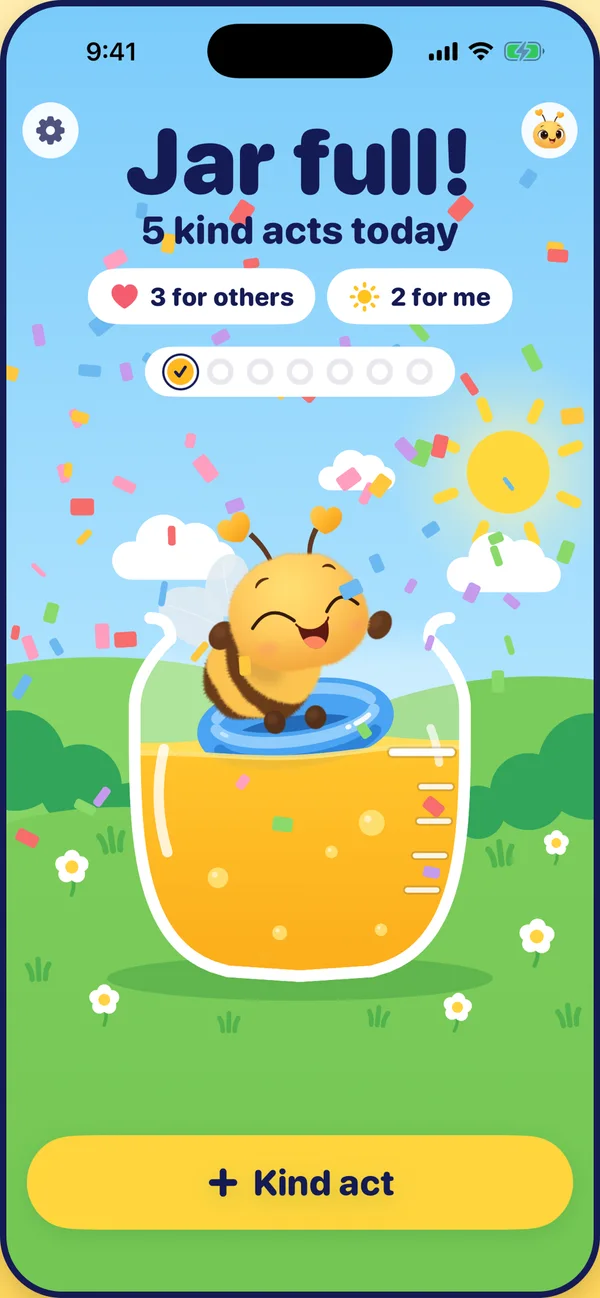
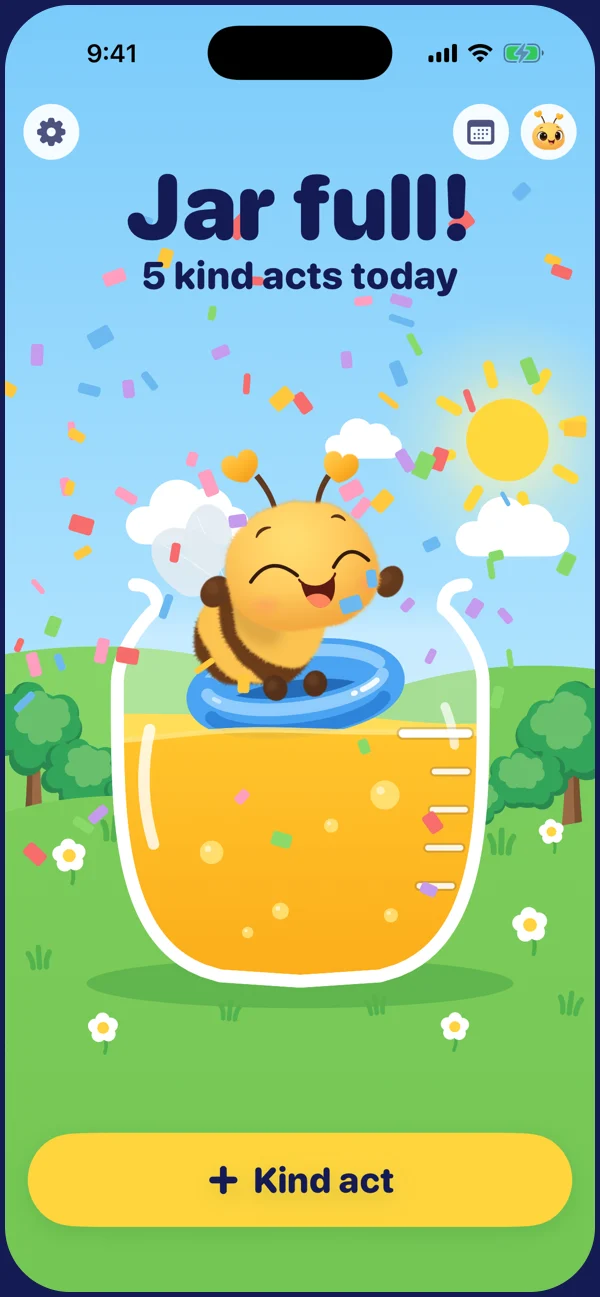
Website update (source commit 699a8e2)

diff --git a/index.html b/index.html
@@ -4,13 +4,13 @@
   <meta charset="utf-8">
   <meta name="viewport" content="width=device-width, initial-scale=1, viewport-fit=cover">
   <title>Bee Kind: Spread Kindness - Kindness Tracker App for iPhone</title>
-  <meta name="description" content="Bee Kind turns kindness into a small daily habit. Each kind act adds honey to your jar. Fill the jar, and your bee throws a party. For iPhone and Apple Watch.">
+  <meta name="description" content="Bee Kind turns kindness into a small daily habit. Each kind act adds honey to your jar. Fill the jar, and your bee throws a party. For iPhone, iPad and Apple Watch.">
   <link rel="canonical" href="https://beekind.io/">
   <meta name="theme-color" content="#7ACBFA">
   <meta property="og:type" content="website">
   <meta property="og:site_name" content="Bee Kind">
   <meta property="og:title" content="Bee Kind: Spread Kindness">
-  <meta property="og:description" content="Fill a honey jar with kind acts. A small daily habit for iPhone and Apple Watch.">
+  <meta property="og:description" content="Fill a honey jar with kind acts. A small daily habit for iPhone, iPad and Apple Watch.">
   <meta property="og:url" content="https://beekind.io/">
   <meta property="og:image" content="https://beekind.io/assets/img/share.png">
   <meta name="twitter:card" content="summary_large_image">
@@ -50,6 +50,7 @@
   <symbol id="i-widget" viewBox="0 0 24 24"><rect x="3.500" y="3.500" width="7.500" height="7.500" rx="2.200"/><rect x="13" y="3.500" width="7.500" height="7.500" rx="2.200"/><rect x="3.500" y="13" width="17" height="7.500" rx="2.200"/></symbol>
   <symbol id="i-lock" viewBox="0 0 24 24"><path d="M7.500 10V7.800a4.500 4.500 0 0 1 9 0V10h.700A1.800 1.800 0 0 1 19 11.800v6.900a1.800 1.800 0 0 1-1.800 1.800H6.800A1.800 1.800 0 0 1 5 18.700v-6.900A1.800 1.800 0 0 1 6.800 10Zm2.200 0h4.600V7.800a2.300 2.300 0 0 0-4.600 0Z"/></symbol>
   <symbol id="i-watch" viewBox="0 0 24 24"><path d="M8.600 2.500h6.800l.700 3.300A3.500 3.500 0 0 1 18.500 9v6a3.500 3.500 0 0 1-2.400 3.200l-.700 3.300H8.600l-.700-3.300A3.500 3.500 0 0 1 5.500 15V9a3.500 3.500 0 0 1 2.400-3.200Zm.400 5.300A1.300 1.300 0 0 0 7.700 9.100v5.800A1.300 1.300 0 0 0 9 16.200h6a1.300 1.300 0 0 0 1.300-1.300V9.100A1.300 1.300 0 0 0 15 7.800Z"/></symbol>
+  <symbol id="i-cloud" viewBox="0 0 24 24"><path d="M7.2 19.2a4.7 4.7 0 0 1-.9-9.3 6 6 0 0 1 11.500-1.300 5.300 5.300 0 0 1-.600 10.600Z"/></symbol>
   <symbol id="i-bell" viewBox="0 0 24 24"><path d="M12 2.800a6.200 6.200 0 0 1 6.200 6.200v3.300l1.600 2.900a1.200 1.200 0 0 1-1 1.800H5.200a1.200 1.200 0 0 1-1-1.800l1.600-2.900V9A6.200 6.200 0 0 1 12 2.800ZM9.600 18.800h4.800a2.400 2.400 0 0 1-4.800 0Z"/></symbol>
 </svg>
 
@@ -80,7 +81,7 @@
 
     <div class="hero__inner wrap">
       <div class="hero__copy">
-        <p class="pill rise" style="--i:0">For iPhone and Apple Watch</p>
+        <p class="pill rise" style="--i:0">For iPhone, iPad and Apple Watch</p>
         <h1 id="hero-title" class="rise" style="--i:1">Fill a honey jar with <span class="hl">kind&nbsp;acts</span></h1>
         <p class="lede rise" style="--i:2">Bee Kind turns kindness into a small daily habit. Each kind act adds honey to your jar. Fill the jar, and your bee throws a party.</p>
         <div class="store rise" style="--i:3">
@@ -97,8 +98,7 @@
           <p class="count__small" id="countSmall">kind acts today</p>
         </div>
         <div class="tags">
-          <span class="tag"><svg class="icon tag__icon tag__icon--others" aria-hidden="true"><use href="#i-heart"/></svg><span id="tagOthers">1 for others</span></span>
-          <span class="tag"><svg class="icon tag__icon tag__icon--me" aria-hidden="true"><use href="#i-sun"/></svg><span id="tagMe">1 for me</span></span>
+          <span class="tag tag--wait" id="tagWait" hidden><svg class="icon tag__icon tag__icon--others" aria-hidden="true"><use href="#i-heart"/></svg><span>1 more for others</span></span>
         </div>
         <div class="jar-stage" id="jarStage">
           <noscript><img class="jar-stage__still" src="assets/img/phone-1.webp" width="600" height="1297" alt="The Bee Kind home screen: a bee in a honey jar, 3 of 5 kind acts today"></noscript>
@@ -120,7 +120,7 @@
     <svg class="edge edge--grass" viewBox="0 0 1440 90" preserveAspectRatio="none" aria-hidden="true"><path d="M0 0h1440v38c-180 46-420 52-720 22S180 30 0 62Z"/></svg>
     <div class="wrap">
       <p class="eyebrow reveal">How it works</p>
-      <h2 id="how-title" class="reveal"><span class="nb">One kind act.</span> <span class="nb">One tap.</span><br>A little more honey.</h2>
+      <h2 id="how-title" class="reveal"><span class="nb">One kind act.</span> <span class="nb">Two taps.</span><br>A little more honey.</h2>
 
       <ol class="steps">
         <li class="step reveal" style="--i:0">
@@ -143,7 +143,7 @@
           </div>
           <p class="step__num" aria-hidden="true">2</p>
           <h3>Tap Kind act</h3>
-          <p>Pick what you did. One tap, and it is in your jar.</p>
+          <p>Pick what you did. Two taps, and it is in your jar. You can add your own kind acts to the list.</p>
         </li>
         <li class="step reveal" style="--i:2">
           <div class="step__art step__art--jar" id="miniJar" aria-hidden="true"></div>
@@ -159,6 +159,7 @@
   <section class="band band--cream screens" aria-labelledby="screens-title">
     <div class="wrap">
       <h2 id="screens-title" class="reveal">A small habit that feels good</h2>
+      <p class="screens__lede reveal">The meadow follows your day: flowers in spring, leaves in autumn, snow in winter, and stars at night.</p>
     </div>
     <div class="strip-wrap" id="stripWrap">
     <button class="round-btn round-btn--white strip__arrow strip__arrow--prev" id="stripPrev" type="button" aria-label="The picture before" hidden><svg class="icon" aria-hidden="true"><use href="#i-left"/></svg></button>
@@ -166,9 +167,9 @@
     <div class="strip" id="strip" tabindex="0" role="group" aria-label="Pictures of the app">
       <figure class="shot reveal" style="--i:0"><div class="phone"><img src="assets/img/phone-1.webp" width="600" height="1297" loading="lazy" alt="Home screen: a bee floats in a honey jar. 3 of 5 kind acts today."></div><figcaption>Fill a honey jar with kind acts</figcaption></figure>
       <figure class="shot reveal" style="--i:1"><div class="phone"><img src="assets/img/phone-2.webp" width="600" height="1297" loading="lazy" alt="The jar is full. Confetti falls and the bee is happy."></div><figcaption>A full jar makes your bee happy</figcaption></figure>
-      <figure class="shot reveal" style="--i:2"><div class="phone"><img src="assets/img/phone-3.webp" width="600" height="1297" loading="lazy" alt="The list of kind acts: said a kind word, helped someone, gave something, said thank you, took care of me, something else."></div><figcaption>Log a kind act with one tap</figcaption></figure>
-      <figure class="shot reveal" style="--i:3"><div class="phone"><img src="assets/img/phone-4.webp" width="600" height="1297" loading="lazy" alt="Your bee, named Bea, with a crown. Other things to wear show below."></div><figcaption>Name your bee. Earn things to wear.</figcaption></figure>
-      <figure class="shot reveal" style="--i:4"><div class="phone"><img src="assets/img/phone-5.webp" width="600" height="1297" loading="lazy" alt="A month of jars: 10 full jars, 74 kind acts, 4 days in a row."></div><figcaption>See your kindest days</figcaption></figure>
+      <figure class="shot reveal" style="--i:2"><div class="phone"><img src="assets/img/phone-3.webp" width="600" height="1297" loading="lazy" alt="The list of kind acts: said a kind word, helped someone, gave something, said thank you, took care of me, something else."></div><figcaption>Log a kind act in two taps</figcaption></figure>
+      <figure class="shot reveal" style="--i:3"><div class="phone"><img src="assets/img/phone-4.webp" width="600" height="1297" loading="lazy" alt="Your bee, named Bea, with a crown. Other things to wear, a bear and four backgrounds show below."></div><figcaption>Name your bee. Earn things to wear.</figcaption></figure>
+      <figure class="shot reveal" style="--i:4"><div class="phone"><img src="assets/img/phone-5.webp" width="600" height="1297" loading="lazy" alt="A month of jars: 10 full jars, 81 kind acts, 4 days in a row."></div><figcaption>See your kindest days</figcaption></figure>
       <figure class="shot reveal" style="--i:5"><div class="phone"><img src="assets/img/phone-6.webp" width="600" height="1297" loading="lazy" alt="The jar on the Lock Screen, in the Dynamic Island and in widgets."></div><figcaption>On your Lock Screen, widgets and Watch</figcaption></figure>
     </div>
     <div class="strip__dots" id="stripDots" hidden></div>
@@ -182,6 +183,8 @@
         <p class="eyebrow reveal">Your bee</p>
         <h2 id="bee-title" class="reveal">Name your bee.<br>Earn things to wear.</h2>
         <p class="reveal">Give your bee a name and pick its look. As your full jars add up, your bee earns a daisy, a bow, a party hat, a top hat and a crown.</p>
+        <p class="reveal">Full jars also open new backgrounds and a new friend: a bear.</p>
+        <p class="reveal">We add new things to earn over time.</p>
         <p class="reveal">Touch your bee and it giggles.</p>
       </div>
       <div class="looks reveal" id="looks" role="group" aria-label="Things for the bee to wear">
@@ -200,12 +203,13 @@
     <div class="wrap">
       <div class="duo">
         <div class="duo__art reveal">
-          <div class="phone phone--tilt-l"><img src="assets/img/phone-5.webp" width="600" height="1297" loading="lazy" alt="A month of jars: 10 full jars, 74 kind acts, 4 days in a row. Sunday is the kindest day."></div>
+          <div class="phone phone--tilt-l"><img src="assets/img/phone-5.webp" width="600" height="1297" loading="lazy" alt="A month of jars: 10 full jars, 81 kind acts, 4 days in a row. Tuesday is the kindest day."></div>
         </div>
         <div class="duo__copy">
           <p class="eyebrow reveal">Look back</p>
           <h2 id="back-title" class="reveal">See your kindest days</h2>
           <p class="reveal">See your month at a glance: full jars, kind acts and days in a row. Find your kindest day of the week and the acts you do most.</p>
+          <p class="reveal">Tap a day to see its kind acts. You can add one that you missed.</p>
           <p class="reveal">Share a picture of your jar and invite a friend to spread kindness with you.</p>
         </div>
       </div>
@@ -222,7 +226,8 @@
             <li class="reveal"><span class="facts__icon"><svg class="icon" aria-hidden="true"><use href="#i-widget"/></svg></span><div><h3>Home Screen widgets</h3><p>A jar that fills, on your Home Screen.</p></div></li>
             <li class="reveal"><span class="facts__icon"><svg class="icon" aria-hidden="true"><use href="#i-lock"/></svg></span><div><h3>Lock Screen and Dynamic Island</h3><p>Your jar shows after your first kind act of the day.</p></div></li>
             <li class="reveal"><span class="facts__icon"><svg class="icon" aria-hidden="true"><use href="#i-watch"/></svg></span><div><h3>Apple Watch</h3><p>Log a kind act from your wrist.</p></div></li>
-            <li class="reveal"><span class="facts__icon"><svg class="icon" aria-hidden="true"><use href="#i-bell"/></svg></span><div><h3>A gentle daily reminder</h3><p>Only if you turn it on.</p></div></li>
+            <li class="reveal"><span class="facts__icon"><svg class="icon" aria-hidden="true"><use href="#i-cloud"/></svg></span><div><h3>iPhone and iPad</h3><p>Both show the same jar, with iCloud.</p></div></li>
+            <li class="reveal"><span class="facts__icon"><svg class="icon" aria-hidden="true"><use href="#i-bell"/></svg></span><div><h3>Gentle reminders</h3><p>A kind idea each day, and a nudge in the evening if your jar is not full. Only if you turn them on.</p></div></li>
           </ul>
         </div>
       </div>

diff --git a/assets/css/site.css b/assets/css/site.css
@@ -265,7 +265,8 @@ html.settled .rise, html.settled .hero__demo, html.settled .hl { animation: none
 @keyframes pop { 0% { transform: scale(1); } 40% { transform: scale(1.14); } 100% { transform: scale(1); } }
 .count__small { font-weight: 800; font-size: clamp(1.15rem, 1.9vw, 1.4rem); margin-top: 2px; }
 
-.tags { display: flex; flex-wrap: wrap; justify-content: center; gap: 8px; margin-top: 12px; }
+/* The room of the tag is always there, so the jar does not move when the tag comes or goes. */
+.tags { display: flex; flex-wrap: wrap; justify-content: center; gap: 8px; margin-top: 12px; min-height: 37px; }
 .tag {
   display: inline-flex; align-items: center; gap: 7px;
   background: #fff; border-radius: 999px; padding: 7px 15px 7px 11px;
@@ -274,7 +275,9 @@ html.settled .rise, html.settled .hero__demo, html.settled .hl { animation: none
 }
 .tag__icon { width: 20px; height: 20px; }
 .tag__icon--others { color: var(--rose); }
-.tag__icon--me { color: #FFC21F; }
+.tag[hidden] { display: none; }
+/* The jar waits for one act for someone else: the tag has a rose edge, as in the app. */
+.tag--wait { box-shadow: 0 0 0 2.5px var(--rose), 0 3px 10px rgba(21, 27, 84, .08); }
 
 .jar-stage { position: relative; width: clamp(240px, 27vw, 350px); margin-top: 8px; }
 .jar-stage__still { display: block; width: 78%; margin: 0 auto; border-radius: 40px; }
@@ -461,6 +464,8 @@ html.settled .rise, html.settled .hero__demo, html.settled .hl { animation: none
 /* The screens */
 
 .screens { padding-top: 0; text-align: center; overflow: hidden; }
+/* One line under the title: the looks of the meadow. */
+.screens__lede { font-weight: 700; font-size: 1.2rem; max-width: 30em; margin: 14px auto 0; text-wrap: balance; }
 /* The row of phone pictures (Matt, 2026-11-19: nothing showed that the row scrolls).
    Wide screen: all six pictures are in view, and the row does not scroll.
    Mid-size screen: the row starts at the left, the last picture in view is cut at the edge, and

diff --git a/assets/js/site.js b/assets/js/site.js
@@ -487,7 +487,8 @@
   var GOAL = 5;
   var counts = { others: 1, me: 1 };
   var countBig = $('#countBig'), countSmall = $('#countSmall');
-  var tagOthers = $('#tagOthers'), tagMe = $('#tagMe');
+  // As in the app, one tag shows only while the jar waits for one act for someone else.
+  var tagWait = $('#tagWait');
   var addButton = $('#addAct'), againButton = $('#startAgain');
   var sheet = $('#actSheet');
 
@@ -503,8 +504,7 @@
     var full = isFull();
     countBig.textContent = full ? 'Jar full!' : total() + ' of ' + GOAL;
     countSmall.textContent = full ? total() + ' kind acts today' : 'kind acts today';
-    tagOthers.textContent = waits() ? '1 more for others' : counts.others + ' for others';
-    tagMe.textContent = counts.me + ' for me';
+    tagWait.hidden = !waits();
     againButton.hidden = !full;
     if (pop && !reduce) {
       countBig.classList.remove('is-pop');

diff --git a/assets/js/bee.js b/assets/js/bee.js
@@ -322,6 +322,10 @@
 
     if (mode === 'ring') {
       ringFront = node('g', { fill: 'none' }, svg);
+      // The left end of the near half is round, as in the app (RingView.swift): the rear of the
+      // bee is behind it. With a flat end, the rear of the bee had a hard straight edge.
+      node('circle', { cx: r1(670 + Math.cos(183 * Math.PI / 180) * 420), cy: r1(1095 + Math.sin(183 * Math.PI / 180) * 135),
+        r: 95, fill: C.ring, stroke: 'none' }, ringFront);
       node('path', { d: ringArc(-3, 183), stroke: C.ring, 'stroke-width': 190 }, ringFront);
       node('path', { d: ringArc(14, 166, -56), stroke: C.ringShade, 'stroke-width': 62, 'stroke-linecap': 'round' }, ringFront);
       node('path', { d: ringArc(10, 170, 44), stroke: C.ringLight, 'stroke-width': 60, 'stroke-linecap': 'round' }, ringFront);

diff --git a/support.html b/support.html
@@ -74,7 +74,7 @@
   <p>Bee Kind for Apple Watch comes with the iPhone app. It shows your jar, and you can add a kind act there. It needs Bee Kind on your iPhone.</p>
 
   <h2>Reminders</h2>
-  <p>You turn the daily reminder on or off in Bee Kind, under Settings. You choose the time there too. Reminders also need your OK for notifications in the Settings app of your iPhone.</p>
+  <p>You turn the daily reminder and the evening nudge on or off in Bee Kind, under Settings. You choose the times there too. Reminders also need your OK for notifications in the Settings app of your iPhone.</p>
 
 </main>
 

diff --git a/privacy.html b/privacy.html
@@ -72,7 +72,7 @@
   <p>Apple handles all payments. We do not see your payment details. Apple tells the app only whether you have a plan.</p>
 
   <h2>Reminders</h2>
-  <p>If you turn on the daily reminder, your iPhone makes and shows it. It does not use a server.</p>
+  <p>If you turn on the daily reminder or the evening nudge, your iPhone or iPad makes and shows it. It does not use a server.</p>
 
   <h2>Children</h2>
   <p>Bee Kind is for a general audience. The usage data has no name, and it is not linked to a person of any age.</p>
